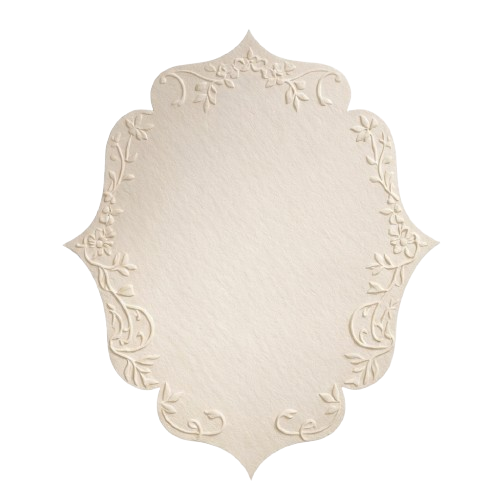
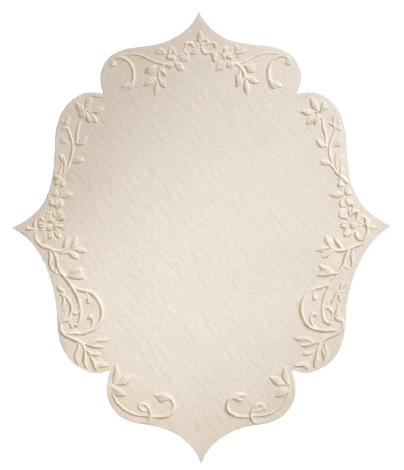
ornate badge

Changed region(s): [[0.0297, 0.0298, 0.9802, 0.983]]

diff --git a/src/routes/index.tsx b/src/routes/index.tsx
@@ -179,7 +179,7 @@ function Home() {
               })}
             </div> */}
 
-            <div className="relative z-10 mx-auto flex min-h-screen max-w-4xl flex-col items-center justify-end px-6 pb-70 pt-32 text-center text-foreground">
+            <div className="relative z-10 mx-auto flex min-h-screen max-w-4xl flex-col items-center justify-end px-6 pb-20 pt-90 text-center text-foreground">
               <motion.p
                 initial={{ opacity: 0, y: 10 }}
                 animate={{ opacity: 1, y: 0 }}
@@ -314,7 +314,7 @@ function Home() {
           </section>
 
           {/* LOCATION */}
-          <section className="mx-auto max-w-4xl px-6 py-8">
+          <section className="mx-auto align-center text-center max-w-4xl px-6 ">
             <SectionHeading eyebrow="The Venue" title="Where We Gather" />
             <div className="relative mx-auto flex aspect-[4/5] w-full max-w-md items-center justify-center sm:max-w-lg">
               <img
@@ -331,17 +331,19 @@ function Home() {
                 <p className="mt-3 font-serif text-base md:text-lg italic text-foreground/75">
                   25 Highland Glen Road, Helensvale
                 </p>
-                <a
+                
+              </div>
+              
+            </div>
+            <a
                   href="https://www.bing.com/ck/a?!&&p=2968c502f1d7e33b265806da5687e8cf3e81047fe5dd512b8b8c06c6cbb31026JmltdHM9MTc4NDQxOTIwMA&ptn=3&ver=2&hsh=4&fclid=2b0fa93d-d477-6894-05db-beabd0776a88&u=a1L21hcHM_Jm1lcGk9MH5-RW1iZWRkZWR-QWRkcmVzc19MaW5rJnR5PTE4JnE9UGFiYW5pJTIwVmVudWUmc3M9eXBpZC5ZTkM3NTkzODc5OENGQjkyMDEmcHBvaXM9LTE3LjczMDQyMTA2NjI4NDE4XzMxLjE3NTU4ODYwNzc4ODA4Nl9QYWJhbmklMjBWZW51ZV9ZTkM3NTkzODc5OENGQjkyMDF-JmNwPS0xNy43MzA0MjF-MzEuMTc1NTg5JnY9MiZzVj0xJkZPUk09TVBTUlBM"
                   target="_blank"
                   rel="noopener noreferrer"
-                  className="mt-8 inline-flex items-center gap-2 border border-gold bg-background/60 px-5 py-2.5 text-[0.65rem] tracking-[0.35em] uppercase text-foreground transition-colors hover:bg-gold hover:text-ivory"
+                  className="mt-3 mx-auto inline-flex items-center gap-2 border border-gold bg-background/60 px-5 py-2.5 text-[0.65rem] tracking-[0.35em] uppercase text-foreground transition-colors hover:bg-gold hover:text-ivory"
                 >
                   <MapPin className="h-3.5 w-3.5" />
                   Open in Maps
                 </a>
-              </div>
-            </div>
           </section>
 
           {/* DRESS CODE */}